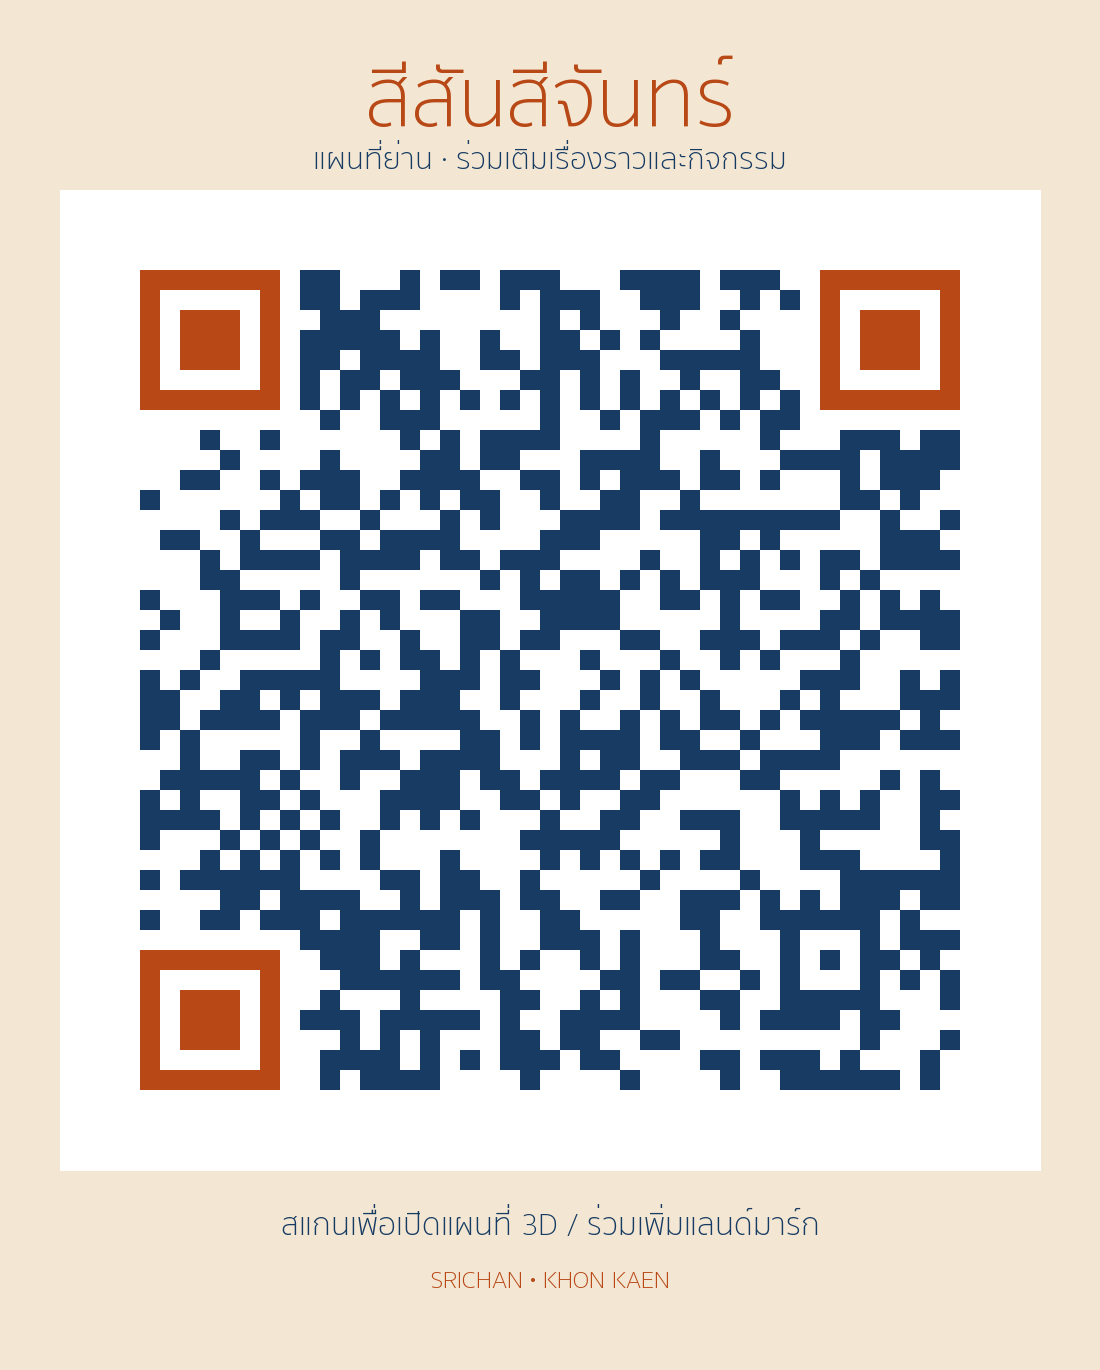
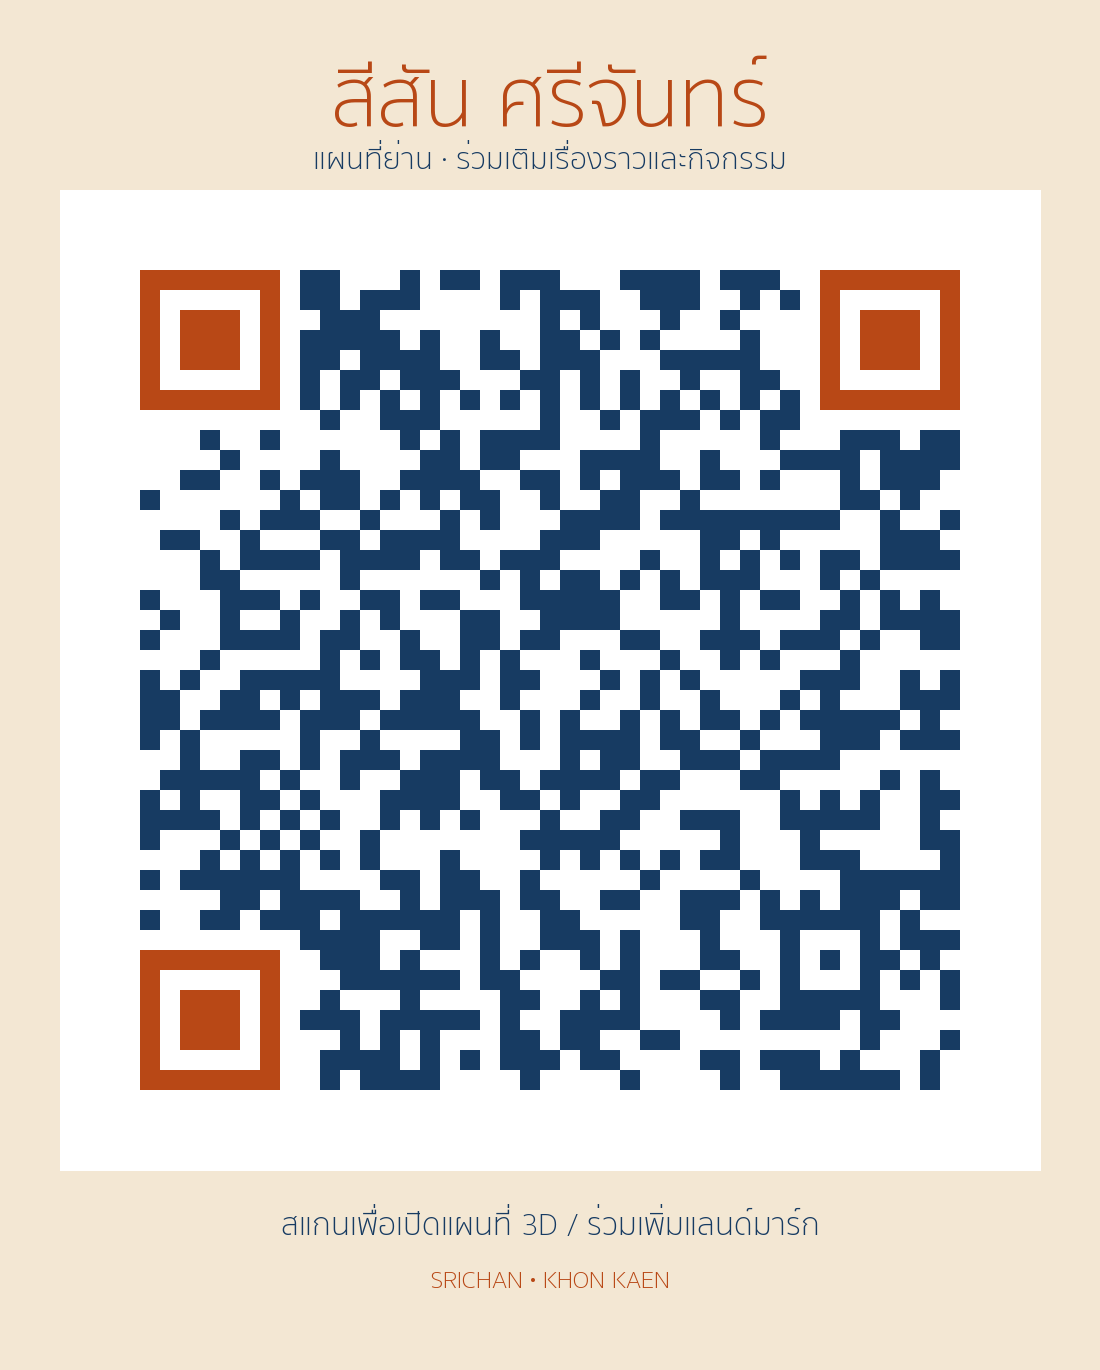
Correct festival title to สีสัน ศรีจันทร์

Changed region(s): [[0.3091, 0.0307, 0.7109, 0.092]]

diff --git a/join/index.html b/join/index.html
@@ -1,1 +1,1 @@
-<!doctype html><html lang="th"><meta charset="utf-8"><meta name="viewport" content="width=device-width,initial-scale=1"><title>สีสันสีจันทร์ · แผนที่ร่วมสร้าง</title><style>body{margin:0;background:#f3e7d3;color:#173b62;font:18px system-ui}main{max-width:680px;margin:0 auto;padding:32px 24px}h1{color:#b84816;font-size:42px;margin-bottom:0}.sub{line-height:1.7}a{color:#173b62}.button{display:block;padding:18px 22px;margin:16px 0;border:2px solid #173b62;border-radius:12px;text-decoration:none;font-weight:700}.primary{background:#173b62;color:white}.orange{background:#b84816;color:white;border-color:#b84816}small{display:block;line-height:1.7}.qr{display:block;width:min(100%,320px);margin:28px auto}footer{margin-top:30px;font-size:14px;line-height:1.8}</style><main><p>SRICHAN · KHON KAEN</p><h1>สีสันสีจันทร์</h1><p class="sub">แผนที่ย่านที่เราร่วมเติมเรื่องราว สถานที่ และกิจกรรมใหม่ได้</p><a class="button primary" id="view" href="../3d/compat.html">เปิดแผนที่ 3D โหมดเบา ↗</a><small>หมุนและซูมดูอาคาร รูป และประวัติ 17 สถานที่ ใช้ได้โดยไม่ต้องเปิด WebGL</small><a class="button orange" id="edit" href="https://umap.openstreetmap.fr/en/map/3_1471827">ร่วมเพิ่ม / แก้ไขแลนด์มาร์กในแผนที่ ↗</a><small>ใน uMap กดแก้ไข เลือกปักหมุด ใส่ชื่อ รูป หรือเรื่องราว แล้วกด Save การแก้ไขที่บันทึกในแผนที่ร่วมจะให้ผู้อื่นเห็นได้</small><a class="button" href="../3d/">เปิดแผนที่ 3D โหมดกราฟิกเต็ม ↗</a><p class="sub">แผนกิจกรรมที่ลองวางในหน้า 3D เก็บเฉพาะเบราว์เซอร์เครื่องนั้น ส่งออกไฟล์เพื่อส่งให้ทีมได้ ส่วนข้อมูลใน uMap กับหน้า 3D ยังไม่ซิงก์กันอัตโนมัติ</p><a href="../srichan-qr-orange-kraft.png" download><img class="qr" src="../srichan-qr-orange-kraft.png" alt="QR สีสันสีจันทร์ โทนส้ม คราฟ และน้ำเงิน"></a><p><a href="../srichan-qr-orange-kraft.png" download>ดาวน์โหลด PNG</a> · <a href="../srichan-qr-orange-kraft.svg" download>ดาวน์โหลด SVG สำหรับพิมพ์</a></p><footer>QR นี้เปิดหน้าลิงก์กลางของโครงการ เปลี่ยนปุ่มปลายทางได้ภายหลังโดยใช้ QR เดิม<br><a href="https://github.com/loveiscomingsoon/srichan-landmarks">ไฟล์และประวัติการอัปเดตใน GitHub ↗</a></footer></main><script>fetch('links.json',{cache:'no-store'}).then(r=>{if(!r.ok)throw Error();return r.json()}).then(v=>{for(const id of ['view','edit']){try{const u=new URL(v[id],location.href);if(u.protocol==='https:')document.getElementById(id).href=u.href}catch(e){}}}).catch(()=>{});</script></html>
+<!doctype html><html lang="th"><meta charset="utf-8"><meta name="viewport" content="width=device-width,initial-scale=1"><title>สีสัน ศรีจันทร์ · แผนที่ร่วมสร้าง</title><style>body{margin:0;background:#f3e7d3;color:#173b62;font:18px system-ui}main{max-width:680px;margin:0 auto;padding:32px 24px}h1{color:#b84816;font-size:42px;margin-bottom:0}.sub{line-height:1.7}a{color:#173b62}.button{display:block;padding:18px 22px;margin:16px 0;border:2px solid #173b62;border-radius:12px;text-decoration:none;font-weight:700}.primary{background:#173b62;color:white}.orange{background:#b84816;color:white;border-color:#b84816}small{display:block;line-height:1.7}.qr{display:block;width:min(100%,320px);margin:28px auto}footer{margin-top:30px;font-size:14px;line-height:1.8}</style><main><p>SRICHAN · KHON KAEN</p><h1>สีสัน ศรีจันทร์</h1><p class="sub">แผนที่ย่านที่เราร่วมเติมเรื่องราว สถานที่ และกิจกรรมใหม่ได้</p><a class="button primary" id="view" href="../3d/compat.html">เปิดแผนที่ 3D โหมดเบา ↗</a><small>หมุนและซูมดูอาคาร รูป และประวัติ 17 สถานที่ ใช้ได้โดยไม่ต้องเปิด WebGL</small><a class="button orange" id="edit" href="https://umap.openstreetmap.fr/en/map/3_1471827">ร่วมเพิ่ม / แก้ไขแลนด์มาร์กในแผนที่ ↗</a><small>ใน uMap กดแก้ไข เลือกปักหมุด ใส่ชื่อ รูป หรือเรื่องราว แล้วกด Save การแก้ไขที่บันทึกในแผนที่ร่วมจะให้ผู้อื่นเห็นได้</small><a class="button" href="../3d/">เปิดแผนที่ 3D โหมดกราฟิกเต็ม ↗</a><p class="sub">แผนกิจกรรมที่ลองวางในหน้า 3D เก็บเฉพาะเบราว์เซอร์เครื่องนั้น ส่งออกไฟล์เพื่อส่งให้ทีมได้ ส่วนข้อมูลใน uMap กับหน้า 3D ยังไม่ซิงก์กันอัตโนมัติ</p><a href="../srichan-qr-orange-kraft.png" download><img class="qr" src="../srichan-qr-orange-kraft.png" alt="QR สีสัน ศรีจันทร์ โทนส้ม คราฟ และน้ำเงิน"></a><p><a href="../srichan-qr-orange-kraft.png" download>ดาวน์โหลด PNG</a> · <a href="../srichan-qr-orange-kraft.svg" download>ดาวน์โหลด SVG สำหรับพิมพ์</a></p><footer>QR นี้เปิดหน้าลิงก์กลางของโครงการ เปลี่ยนปุ่มปลายทางได้ภายหลังโดยใช้ QR เดิม<br><a href="https://github.com/loveiscomingsoon/srichan-landmarks">ไฟล์และประวัติการอัปเดตใน GitHub ↗</a></footer></main><script>fetch('links.json',{cache:'no-store'}).then(r=>{if(!r.ok)throw Error();return r.json()}).then(v=>{for(const id of ['view','edit']){try{const u=new URL(v[id],location.href);if(u.protocol==='https:')document.getElementById(id).href=u.href}catch(e){}}}).catch(()=>{});</script></html>
